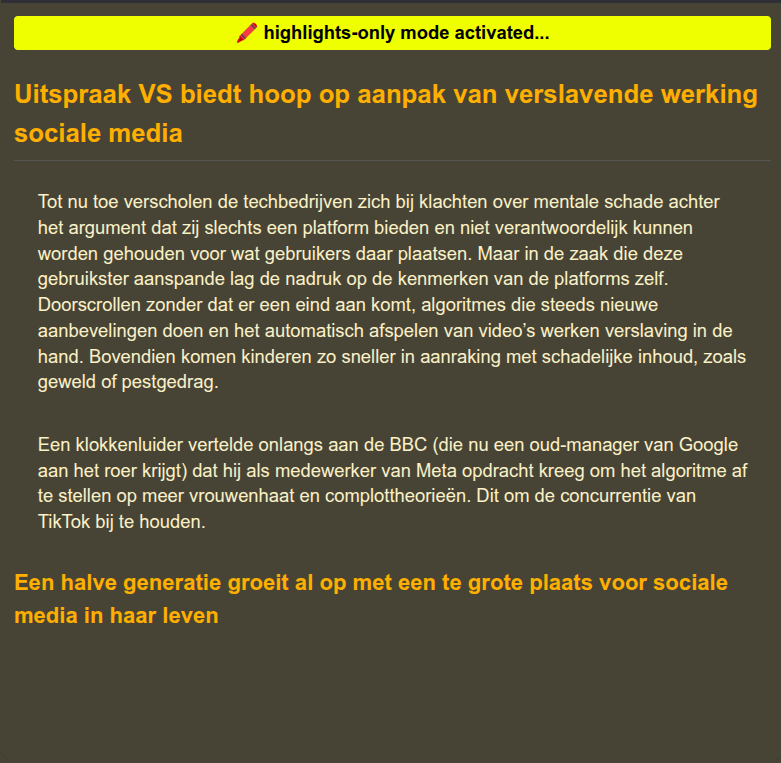
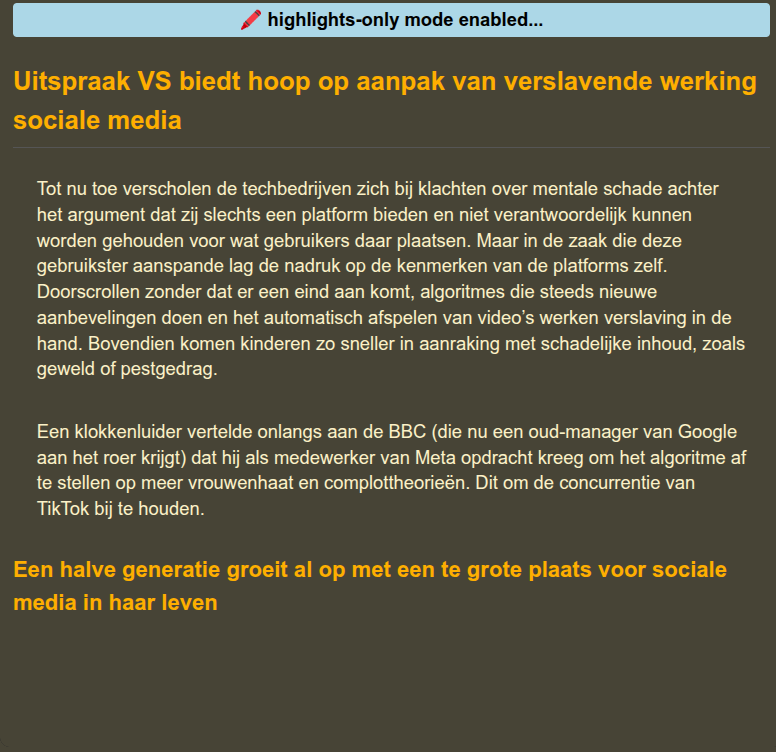
Use "enabled" instead of "activated" for terminology.
Also: if a note only contains highlights shorter than 20 characters, don't enable highlights-only mode

diff --git a/src/index.ts b/src/index.ts
@@ -114,13 +114,13 @@ async function registerHighlightsOnlySettings() {
         }
     });
     await joplin.settings.registerSettings({
-        showHighlightsOnlyActivatedStatus: {
+        showHighlightsOnlyEnabledStatus: {
             value: true,
             type: SettingItemType.Bool,
             section: 'highlightsOnlyDisplaySection',
             public: true,
-            label: 'Show highlights-only activated status',
-            description: 'If you enable this setting, on pages without highlights, when highlights-only mode has been activated, that activated-status will be shown by a tooltip at the top of the note.'
+            label: 'Show highlights-only enabled status',
+            description: 'If you enable this setting, on pages without highlights, when highlights-only mode has been enabled, that enabled-status will be shown by a tooltip at the top of the note.'
         }
     });
 }
@@ -128,15 +128,15 @@ async function registerHighlightsOnlySettings() {
 async function loadHighlightsOnlyCSS() {
     const installDir = await joplin.plugins.installationDir();
 
-    //! here we load default CSS for .highlights-only-activated:
-    const showHighlightsOnlyModeActivated = await joplin.settings.value('showHighlightsOnlyActivatedStatus');
-    if (showHighlightsOnlyModeActivated) {
-        const showActivatedFilePath = installDir + '/show-highlights-only-activated.css';
-        await (joplin as any).window.loadNoteCssFile(showActivatedFilePath);
+    //! here we load default CSS for .highlights-only-enabled:
+    const showHighlightsOnlyModeEnabled = await joplin.settings.value('showHighlightsOnlyEnabledStatus');
+    if (showHighlightsOnlyModeEnabled) {
+        const showEnabledFilePath = installDir + '/show-highlights-only-enabled.css';
+        await (joplin as any).window.loadNoteCssFile(showEnabledFilePath);
     }
 
     //* --- load CSS from custom user stylesheet highlights-only.css ---
-    //! in this user stylesheet you can overrule the lay-out of .highlights-only-activated:
+    //! in this user stylesheet you can overrule the lay-out of .highlights-only-enabled:
     const noteCssFilePath = installDir + '/highlights-only.css';
     await (joplin as any).window.loadNoteCssFile(noteCssFilePath);
 

diff --git a/src/highlightsOnly.ts b/src/highlightsOnly.ts
@@ -1,3 +1,23 @@
+
+const minRequiredHighlightLength = 20;
+
+function checkHasSubstantialHighlights(html :string):boolean {
+    const regex = /<mark\b[^>]*>([\s\S]*?)<\/mark>/gi;
+
+    let match: string[];
+    while ((match = regex.exec(html)) !== null) {
+        const temp = document.createElement('div');
+        temp.innerHTML = match[1];
+        const text = temp.textContent?.trim() || '';
+
+        if (text.length >= minRequiredHighlightLength) {
+            return true;
+        }
+    }
+
+    return false;
+}
+
 module.exports = {
     default: function (context) {
         return {
@@ -9,11 +29,15 @@ module.exports = {
                     let html = defaultRender(tokens, options, env);
 
                     //* if no mark elements present, no content change needed:
-                    if (!html.includes('<mark')) {
-                        if (html.includes("<div class='highlights-only-activated'>")) {
+                    let hasHighlight = html.includes('<mark');
+                    if (hasHighlight) {
+                        hasHighlight = checkHasSubstantialHighlights(html)
+                    }
+                    if (!hasHighlight) {
+                        if (html.includes("<div class='highlights-only-enabled'>")) {
                             return html;
                         }
-                        return "<div class='highlights-only-activated'>" + html + '</div>';
+                        return "<div class='highlights-only-enabled'>" + html + '</div>';
                     }
 
                     html = html.replace(

diff --git a/src/highlightsOnlyUndo.ts b/src/highlightsOnlyUndo.ts
@@ -11,13 +11,13 @@ module.exports = {
                     // if no mark elements present, no content change needed:
                     if (!html.includes('<mark')) {
                         return html
-                            .replace(/<div class='highlights-only-activated'>/, '')
+                            .replace(/<div class='highlights-only-enabled'>/, '')
                             .replace(/<\/div>$/, '');
                     }
 
                     html = html
                         .replace(/<div class='highlights-only'>/, '')
-                        .replace(/<div class='highlights-only-activated'>/, '')
+                        .replace(/<div class='highlights-only-enabled'>/, '')
                         .replace(/<\/div>$/, '')
                         .replace(/<span class="hide-around-highlight">/g, '')
                         .replace(/<\/span><mark/g, '<mark')

diff --git a/src/highlights-only.css b/src/highlights-only.css
@@ -39,9 +39,9 @@
 
 /* Status indicator */
 .highlights-only::before {
-    content: "🖍 highlights-only mode activated...";
+    content: "🖍 highlights-only mode enabled...";
     display: block;
-    background: yellow;
+    background: lightblue;
     color: black;
     padding: 4px 8px;
     font-weight: bold;

diff --git a/src/show-highlights-only-enabled.css b/src/show-highlights-only-enabled.css
@@ -1,0 +1,11 @@
+.highlights-only-enabled::before {
+    content: "🖍 no (substantial) highlights below...";
+    display: block;
+    background: lightblue;
+    color: black;
+    padding: 4px 8px;
+    font-weight: bold;
+    margin-bottom: 11px;
+    text-align: center;
+    border-radius: 4px;
+}

diff --git a/README.md b/README.md
@@ -1,7 +1,8 @@
 # Toggle highlights-only display Plugin
 
 * With the eye-button which this plugin adds to the Joplin notebar, you can toggle between highlights-only display, or display of the entire note text.
-* If a note doesn't contain any highlights at all, the note text will always be shown, even when highlights-only mode should be enabled.
+* If a note doesn't contain any highlights at all, the note text will always be shown, even when has been enabled.
+* When a note only contains shorter highlights (i.e.: less than 20 characters), the note will be treated as having no highlights. This allows the user to emphasize words, without triggering highlights-only mode because of these highlights.
 * The plugin has a section in the Joplin settings, _Highlights-only toggler_.
 * In this settings section you can also define a hotkey for toggling the highlights-only display.
 * The plugin uses custom CSS for displaying the highlights-only mode:
@@ -47,7 +48,7 @@
 
 /* Status indicator */
 .highlights-only::before {
-    content: "🖍 highlights-only mode activated...";
+    content: "🖍 highlights-only mode enabled...";
     display: block;
     background: yellow;
     color: black;
@@ -110,9 +111,9 @@
 
 /* Status indicator */
 .highlights-only::before {
-    content: none; /* or e.g.: content: "🖍 highlights-only mode activated...";*/
+    content: none; /* or e.g.: content: "🖍 highlights-only mode enabled...";*/
     display: block;
-    background: yellow;
+    background: lightblue;
     color: black;
     padding: 0;
     font-weight: bold;
@@ -120,23 +121,11 @@
     text-align: center;
     border-radius: 4px;
 }
-
-.highlights-only-activated::before {
-    content: "🖍 enkel-markeringen modus geactiveerd (maar hieronder geen markeringen)...";
-    display: block;
-    background: lightblue;
-    color: black;
-    padding: 4px 8px;
-    font-weight: bold;
-    margin-bottom: 11px;
-    text-align: center;
-    border-radius: 4px;
-}
 ```
 * In your custom stylesheet, you can also style the tooltip at the start of notes which don't have highlights. This is the default CSS for those tooltips:
 ```CSS
-.highlights-only-activated::before {
-    content: "🖍 highlights-only mode activated (but current note has no highlights)...";
+.highlights-only-enabled::before {
+    content: "🖍 no (substantial) highlights below...";
     display: block;
     background: lightblue;
     color: black;
